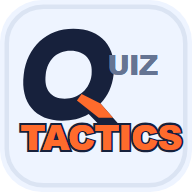
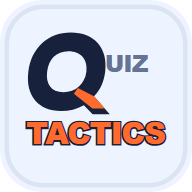
fix: mobil uygulama simgesini kompaktlaştır

Changed region(s): [[0.0938, 0.125, 0.9688, 0.8125], [0.25, 0.3125, 0.2812, 0.3438]]

diff --git a/index.html b/index.html
@@ -20,20 +20,20 @@
     <meta property="og:title" content="Quiz Tactics — Bilgi Yarışması" />
     <meta property="og:description" content="Türkçe bilgi yarışması: 1v1 meydan okuma, günlük turnuvalar, şehir ve ülke ligleri. Binlerce soru, ücretsiz." />
     <meta property="og:url" content="https://quiztactics.vercel.app/" />
-    <meta property="og:image" content="https://quiztactics.vercel.app/quiztactics-wordmark-icon-512.png" />
+    <meta property="og:image" content="https://quiztactics.vercel.app/quiztactics-wordmark-icon-512.png?v=20260922-compact" />
     <meta property="og:locale" content="tr_TR" />
     <meta name="twitter:card" content="summary" />
     <meta name="twitter:title" content="Quiz Tactics — Bilgi Yarışması" />
     <meta name="twitter:description" content="Türkçe bilgi yarışması: 1v1 meydan okuma, günlük turnuvalar, şehir ve ülke ligleri." />
-    <meta name="twitter:image" content="https://quiztactics.vercel.app/quiztactics-wordmark-icon-512.png" />
+    <meta name="twitter:image" content="https://quiztactics.vercel.app/quiztactics-wordmark-icon-512.png?v=20260922-compact" />
     <!--
       Manifest adı geriye uyumluluk için korundu. Eski bildim-icon-* dosyaları
       yüklü PWA'ların geri dönüşü için durur; aktif ikonlar önbellek kıran
       quiztactics-wordmark-* yollarıdır.
     -->
-    <link rel="manifest" href="/bildim.webmanifest?v=20260922-forward-full" />
-    <link rel="icon" type="image/png" href="/quiztactics-wordmark-icon-192.png" />
-    <link rel="apple-touch-icon" href="/quiztactics-wordmark-icon-192.png" />
+    <link rel="manifest" href="/bildim.webmanifest?v=20260922-compact" />
+    <link rel="icon" type="image/png" href="/quiztactics-wordmark-icon-192.png?v=20260922-compact" />
+    <link rel="apple-touch-icon" href="/quiztactics-wordmark-icon-192.png?v=20260922-compact" />
     <meta name="apple-mobile-web-app-capable" content="yes" />
     <meta name="apple-mobile-web-app-title" content="Quiz Tactics" />
     <meta name="apple-mobile-web-app-status-bar-style" content="black-translucent" />

diff --git a/oyun/components/AnaEkranaEkle.jsx b/oyun/components/AnaEkranaEkle.jsx
@@ -172,7 +172,7 @@ export default function AnaEkranaEkle() {
 
         <div className="bd-ekle-ust">
           <img
-            src="/quiztactics-wordmark-icon-192.png"
+            src="/quiztactics-wordmark-icon-192.png?v=20260922-compact"
             alt=""
             width="52"
             height="52"

diff --git a/PROGRESS.md b/PROGRESS.md
@@ -7454,3 +7454,11 @@ sonraki pakette.
   favicon, Apple touch icon, sosyal paylaşım ve kurulum penceresi yolları yeni
   `quiztactics-wordmark-*` dosya adlarına geçirildi. Eski `bildim-icon-*`
   dosyaları geriye uyumluluk için silinmedi.
+
+## 22 Eylül 2026 — Mobil uygulama ikonu kompaktlaştırıldı
+**Araç:** Codex
+
+- Uygulama ikonundaki Q + UIZ + TACTICS grubu yaklaşık %15 küçültülüp merkeze
+  alındı. Android'in daire/squircle maskesinde yazının kenarlara sıkışmaması
+  için güvenli alan büyütüldü; aktif ikon URL'lerinin sürümü yenilendi.
+- Oyun içi mobil üst bar logosu sahibinin isteğiyle aynen korundu.
